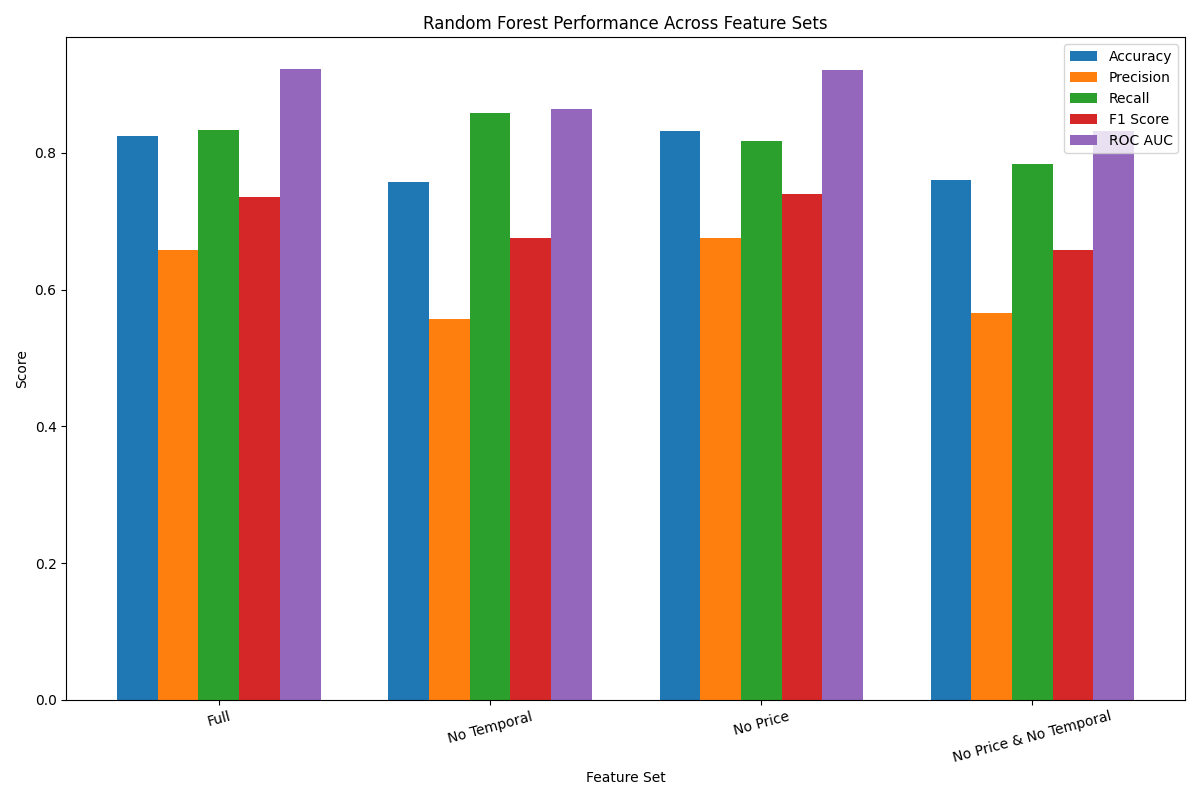
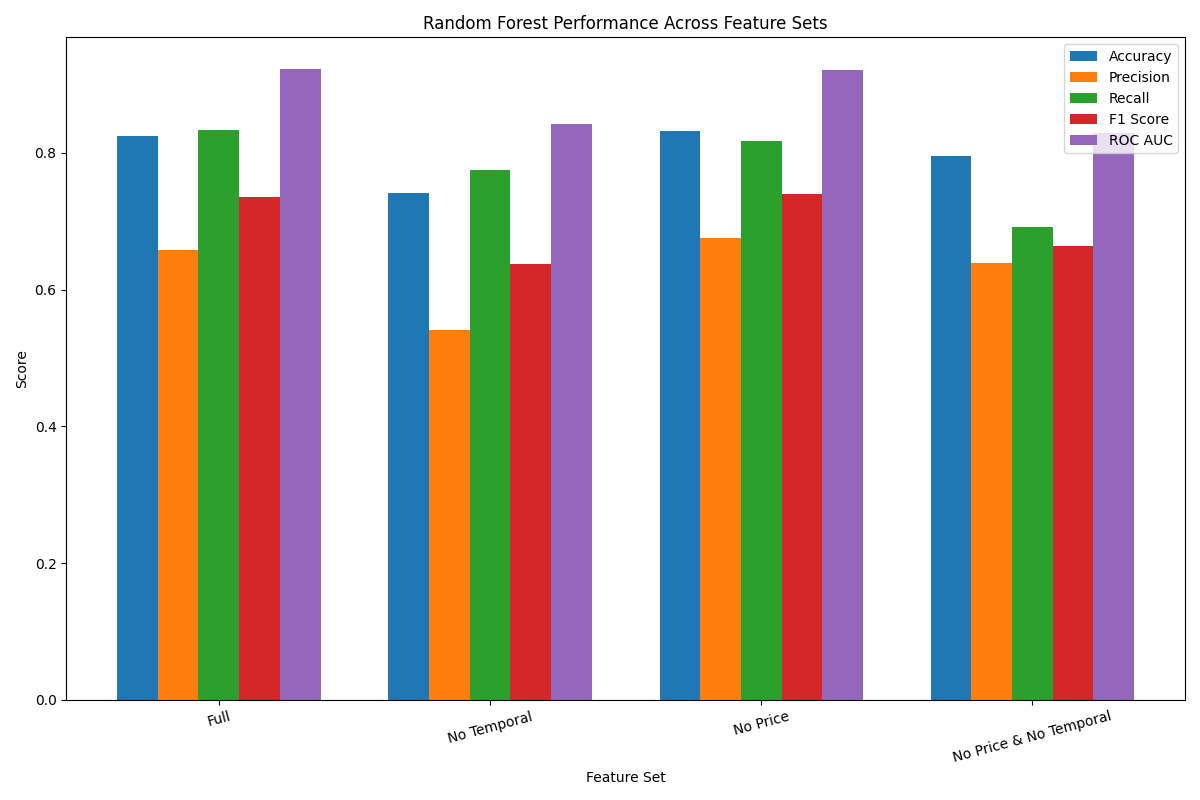
fixed bugs in Random Forest

diff --git a/model_utils.py b/model_utils.py
@@ -154,7 +154,8 @@ def prepare_features(df, check_leakage=True, remove_price_features=True, feature
     logging.info(f"Shape after dropping missing target: {df_ml.shape}")
     
     # Define temporal features
-    temporal_features = ['sale_year', 'sale_month', 'sale_quarter', 'sale_day_of_week', 'economic_era'] 
+    temporal_features = ['sale_year', 'sale_month', 'sale_quarter', 'sale_day_of_week', 'economic_era',
+                         'season', 'is_weekend', 'property_season'] 
     
     # Define price-related features
     price_features = ['Price', 'rolling_3m_price_mean', 'price_yoy_change']
@@ -187,7 +188,7 @@ def prepare_features(df, check_leakage=True, remove_price_features=True, feature
         exclude_cols = basic_exclude + temporal_features
         
         # Separate numeric and categorical features
-        numeric_features = ['Living_Area', 'Rooms', 'floor_count', 'is_weekend']
+        numeric_features = ['Living_Area', 'Rooms', 'floor_count']
         
         # Keep price features unless explicitly told to remove them
         if not remove_price_features:
@@ -198,7 +199,7 @@ def prepare_features(df, check_leakage=True, remove_price_features=True, feature
         exclude_cols = basic_exclude + temporal_features + price_features
         
         # Separate numeric and categorical features - only property characteristics
-        numeric_features = ['Living_Area', 'Rooms', 'floor_count', 'is_weekend']
+        numeric_features = ['Living_Area', 'Rooms', 'floor_count']
     else:
         raise ValueError(f"Unknown feature_set: {feature_set}")
     
@@ -230,9 +231,21 @@ def prepare_features(df, check_leakage=True, remove_price_features=True, feature
                           and df_ml[col].dtype == 'object'
                           and df_ml[col].nunique() < 30]  # Avoid columns with too many categories
     
-    # For 'no_temporal' and 'no_price_temporal' feature sets, ensure economic_era is excluded
-    if feature_set != 'full' and 'economic_era' in categorical_features:
-        categorical_features.remove('economic_era')
+    # For non-full feature sets, ensure all temporal-derived features are excluded
+    if feature_set != 'full':
+        # Remove any categorical features that are derived from temporal features
+        temporal_derived = [col for col in categorical_features 
+                         if any(temp in col for temp in ['season', 'year', 'month', 'quarter', 'day', 'weekend'])]
+        
+        for col in temporal_derived:
+            if col in categorical_features:
+                categorical_features.remove(col)
+                logging.info(f"Removed temporal-derived feature: {col}")
+
+        # Specifically ensure economic_era is excluded
+        if 'economic_era' in categorical_features:
+            categorical_features.remove('economic_era')
+            logging.info("Removed economic_era feature")
     
     logging.info(f"Final numeric columns: {numeric_features}")
     logging.info(f"Final categorical columns: {categorical_features}")

diff --git a/analyze_ml_ready_data.py b/analyze_ml_ready_data.py
@@ -169,6 +169,11 @@ def main():
         if feature_set == 'no_price':
             # For 'no_price', we want to exclude price features but keep temporal features
             X, y, df_processed = prepare_features(df, check_leakage=True, remove_price_features=True, feature_set='full')
+            
+            # Make sure is_weekend is included in the features since it's a temporal feature we want to keep
+            if 'is_weekend' not in X.columns and 'is_weekend' in df_processed.columns:
+                X = pd.concat([X, df_processed[['is_weekend']]], axis=1)
+                logging.info("Added is_weekend back to the no_price feature set")
         else:
             X, y, df_processed = prepare_features(df, check_leakage=True, remove_price_features=False, feature_set=feature_set)
         
